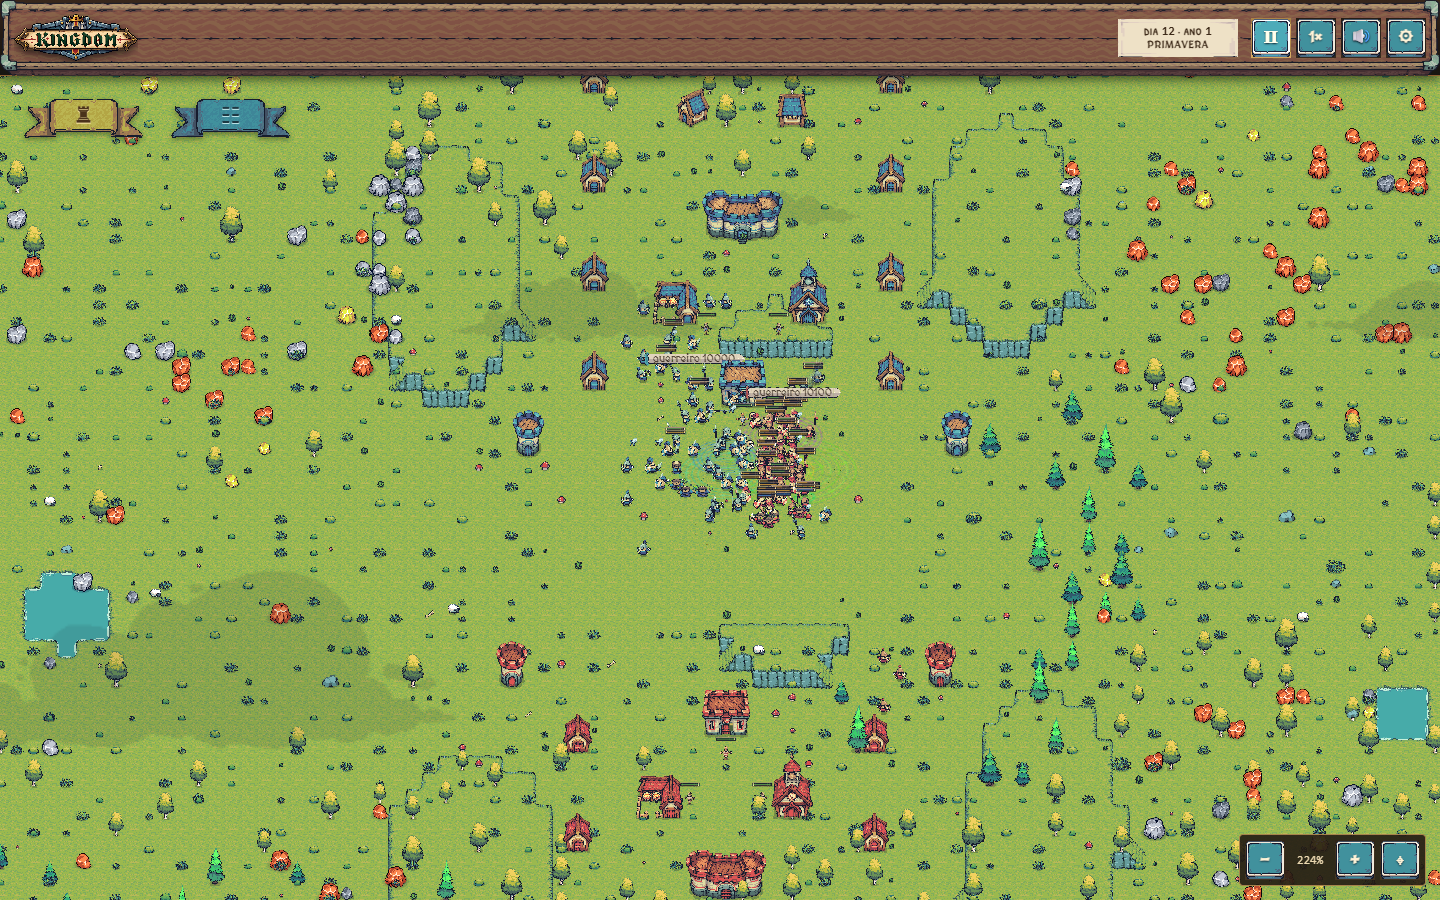
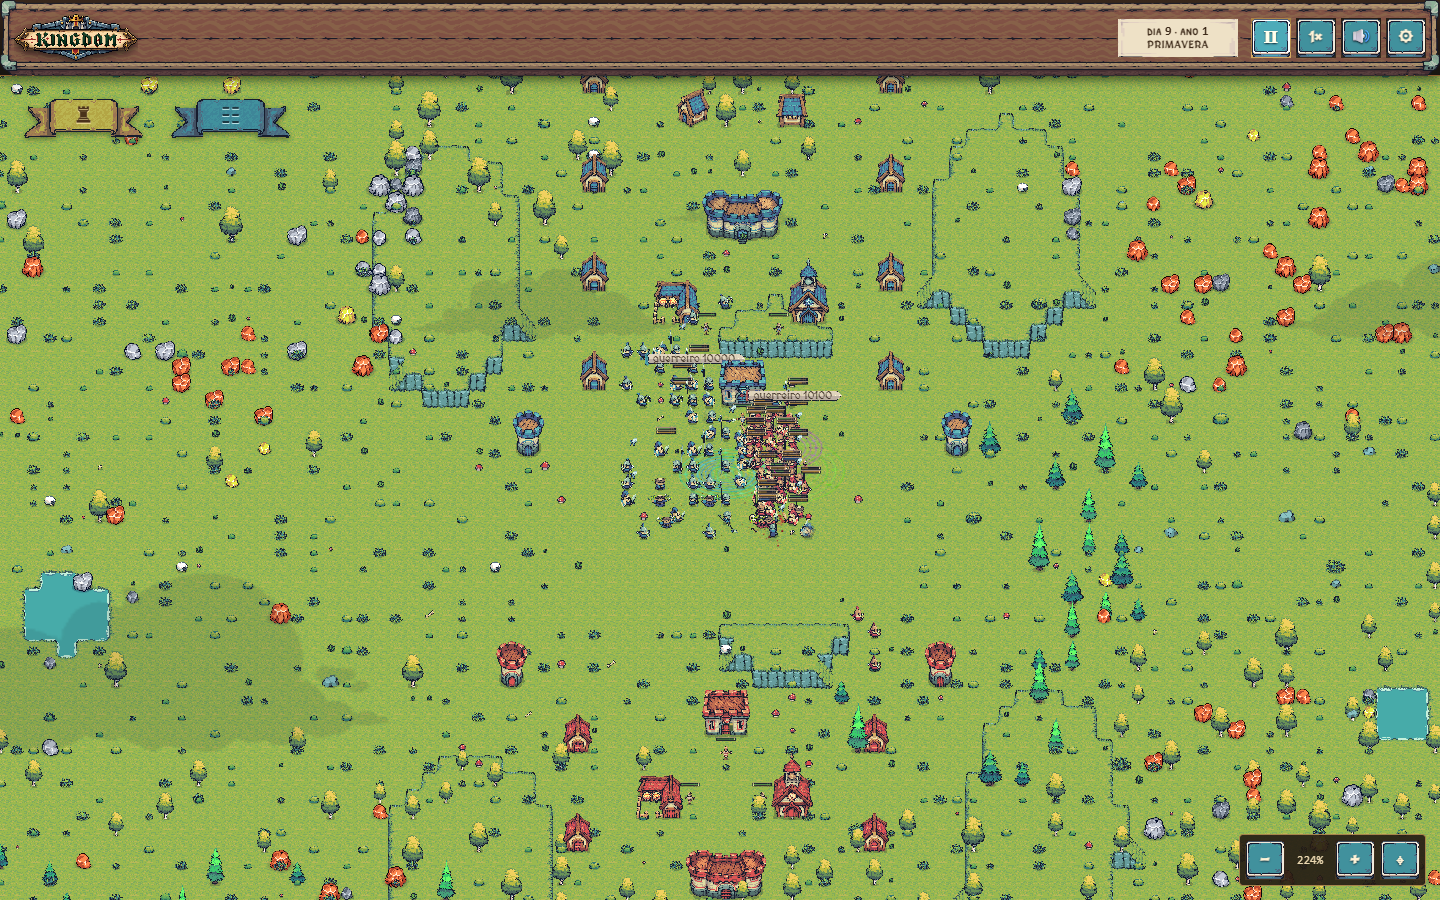
fix: emit area spell particles on every affected unit

diff --git a/src/ui/magic/presentation.js b/src/ui/magic/presentation.js
@@ -13,14 +13,14 @@ const mix = (hex, amount) => '#' + hex.slice(1).match(/../g).map(part => {
   return Math.round(value + (amount > 0 ? 255 - value : value) * amount).toString(16).padStart(2, '0');
 }).join('');
 
-export function createMagicPresentation({ tileSize, maxParticles = 2700, maxEffects = 360 } = {}) {
+export function createMagicPresentation({ tileSize, maxParticles = 2700, maxEffects = 512 } = {}) {
   const system = new DebuffSystem(), entries = new Map(), indicatorConfigs = new Map(), styles = new Map();
   const visibleEntries = [], poseCache = new Map();
   let lastRenderAt = 0, particleCount = 0;
 
   function sync(world, renderAt = 0, reset = false) {
     if (reset) { system.clear(); entries.clear(); }
-    const seen = new Set();
+    const seen = new Set(), recipientIds = new Set();
     function keep(key, data) {
       seen.add(key);
       let entry = entries.get(key);
@@ -48,6 +48,7 @@ export function createMagicPresentation({ tileSize, maxParticles = 2700, maxEffe
     }
     for (const person of world.people) {
       if (!person.alive) continue;
+      if (person.restingStructureId == null) recipientIds.add(person.id);
       const cast = person.magicCast;
       if (cast) keep('cast:' + person.id + ':' + cast.startedAt, { spellId: cast.spellId,
         targetId: SPELLS[cast.spellId].radius ? null : cast.targetId,
@@ -64,15 +65,23 @@ export function createMagicPresentation({ tileSize, maxParticles = 2700, maxEffe
       if (zone.expiresAt != null && zone.expiresAt <= (world.magicTimeMs || 0)) continue;
       keep('zone:' + zone.id, { spellId: zone.spellId,
         x: zone.x, y: zone.y, radius: zone.radius, circle: false, particleSpeed: .6 });
+      for (const person of world.people) {
+        if (zone.kingdomId == null || !person.alive || person.restingStructureId != null || person.kingdomId !== zone.kingdomId
+            || Math.hypot(person.x - zone.x, person.y - zone.y) > zone.radius) continue;
+        keep('zone-aura:' + person.id + ':' + zone.spellId, { spellId: zone.spellId,
+          personId: person.id, radius: .5, circle: false });
+      }
     }
     for (const event of world.magicEvents || []) {
       if (event.kind !== 'activated' || (world.magicTimeMs || 0) - event.at > 1100) continue;
       if ((world.magicTimeMs || 0) - event.at < 650) keep('burst:' + event.id,
         { spellId: event.spellId, x: event.x, y: event.y,
           radius: SPELLS[event.spellId]?.radius || .65, circle: true, activatedAt: event.at });
-      if (SPELLS[event.spellId]?.radius) continue;
-      for (const id of event.targetIds || []) keep('pulse:' + event.id + ':' + id,
-        { spellId: event.spellId, personId: id, radius: .65, circle: false });
+      for (const id of event.targetIds || []) {
+        if (!recipientIds.has(id)) continue;
+        keep('pulse:' + event.id + ':' + id,
+          { spellId: event.spellId, personId: id, radius: .65, circle: false });
+      }
     }
     for (const [key, entry] of entries) {
       if (!seen.has(key) && entry.retiringAt == null) entry.retiringAt = renderAt;

diff --git a/docs/verification/priest-vfx-refinement-20261030.md b/docs/verification/priest-vfx-refinement-20261030.md
@@ -6,10 +6,12 @@ Atualiza a implementação inicial descrita em `priest-tactical-magic-20261030.m
 - Preparo e custo são explícitos por magia, conforme a tabela atualizada abaixo. Recarga individual conta a partir do fim do preparo; recuperação compartilhada de 1,5 s evita alternância contínua entre magias. A recuperação de mana permanece em 10 por dia (30 em repouso), mas fica suspensa durante a conjuração; o limite continua em 200.
 - Sacerdotes abrem a animação `heal` uma vez e repetem somente os quadros 4–7 durante a preparação. Na ativação, liberam os quadros 8–11 e retornam ao estado normal. O trecho usa o relógio da magia, sem reiniciar a cada dia; interrupção não reproduz a finalização. O sprite antigo `heal-effect` foi removido da apresentação, sem remover a animação do personagem.
 - Círculos aparecem no preparo, intensificam brilho/pulsação e produzem um clarão local de até 650 ms. Depois, nenhum círculo permanece. Partículas de efeitos e Santuário persistem até sua própria expiração; a área permanece funcional sem seu círculo.
+- Toda ativação, inclusive de área, emite partículas em cada destinatário vivo registrado no evento, sem círculos individuais. Buffs/debuffs mantêm suas auras pelo efeito. O Santuário também mantém partículas em seus ocupantes aliados atuais; sair da zona remove a aura. O selo e o clarão de área continuam presos ao ponto do chão.
 - Os perfis explícitos em `spell-styles.js` adaptam as famílias Arcano, Rúnico, Invocação e Debuff do laboratório fornecido, incluindo suas runas angulares e símbolos centrais. Há 16 combinações de geometria, contagem de anéis e glifos, sem escolha aleatória. Cores e rotações também diferem.
 - A seleção usa o módulo nos pés e antes do sprite. Marcadores de conflito dos NPCs foram removidos apenas do desenho; a lógica de alvos permanece. Hover normal é ciano; vermelho aparece apenas no hover de mira do jogador durante controle manual.
 - Partículas mantêm o tamanho reduzido das iterações anteriores. O último ajuste aumenta a grade de detalhe de 16 para 24 amostras por unidade e os níveis de transparência de 32 para 48, preservando o tamanho. Quantidade desejada: 21 → 32 em círculos, 11 → 17 em personagens/zonas; orçamento global 1.200 → 1.800, dividido entre emissores visíveis.
 - Selos são rasterizados a 8× e reutilizados em cache limitado a 64 imagens/16 milhões de pixels. A filtragem na redução preserva as linhas finas, sem aplicar blur ao mapa ou aos sprites.
+- O limite de instâncias visuais passa a 512 para acomodar a ativação em 100 destinatários junto de três status por unidade e auras territoriais. O orçamento de partículas permanece em 2.700, compartilhado entre os efeitos visíveis. Testes confirmam que todos os 100 alvos recebem partículas e que selos não acompanham os personagens.
 
 ### Ajuste posterior: chamas e turbulência
 
